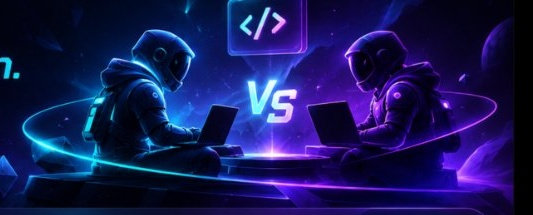
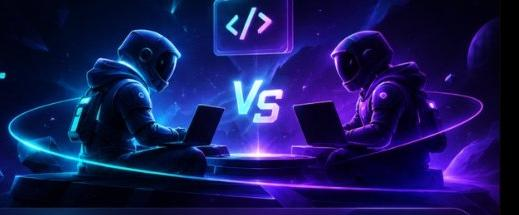
fix(arena): clean left artifact from vs image and remove justify-center scroll clipping

diff --git a/src/components/arena/FullArenaExperience.tsx b/src/components/arena/FullArenaExperience.tsx
@@ -2988,11 +2988,11 @@ export function FullArenaExperience({
       )}
 
       {/* Main Arena Viewport */}
-      <main className="relative z-10 flex-1 overflow-y-auto overflow-x-hidden flex flex-col justify-start lg:justify-center items-center p-4 sm:p-6 lg:p-8">
+      <main className="relative z-10 flex-1 overflow-y-auto overflow-x-hidden flex flex-col justify-start items-center p-4 sm:p-6 lg:p-8">
         
         {/* ================= STEP 0: MULTIPLAYER ARENA COMMAND CENTER (HERO + TACTICAL COMBAT GATEWAY) ================= */}
         {step === 0 && (
-          <div className="w-full max-w-7xl 2xl:max-w-[1540px] mx-auto space-y-6 sm:space-y-8 animate-fadeIn pb-12">
+          <div className="w-full max-w-7xl 2xl:max-w-[1540px] mx-auto space-y-6 sm:space-y-8 animate-fadeIn pt-2 pb-12">
             {/* Top Hero Section: Code. Compete. Win. */}
             <div className="relative rounded-3xl p-6 sm:p-8 lg:p-10 bg-gradient-to-r from-slate-950 via-slate-900/90 to-purple-950/30 border border-slate-800 shadow-[0_0_60px_rgba(0,0,0,0.8)] overflow-hidden flex flex-col md:flex-row items-center justify-between gap-6 lg:gap-10">
               {/* Left Hero Content */}
@@ -3044,10 +3044,10 @@ export function FullArenaExperience({
               </div>
 
               {/* Right Hero Graphic: Futuristic Cyber Coders VS */}
-              <div className="relative shrink-0 w-full md:w-80 lg:w-[420px] xl:w-[480px] flex items-center justify-center">
+              <div className="relative shrink-0 w-full md:w-96 lg:w-[460px] xl:w-[520px] flex items-center justify-center">
                 <div className="absolute inset-0 bg-gradient-to-r from-cyan-500/20 via-purple-500/20 to-pink-500/10 blur-3xl rounded-full pointer-events-none" />
                 <img
-                  src="/brand/arena-coders-vs.jpg"
+                  src="/brand/arena-coders-vs.jpg?v=2"
                   alt="Multiplayer Coding Battle"
                   className="relative z-10 w-full h-auto rounded-2xl border border-cyan-500/40 shadow-[0_0_40px_rgba(6,182,212,0.3)] object-cover"
                 />
